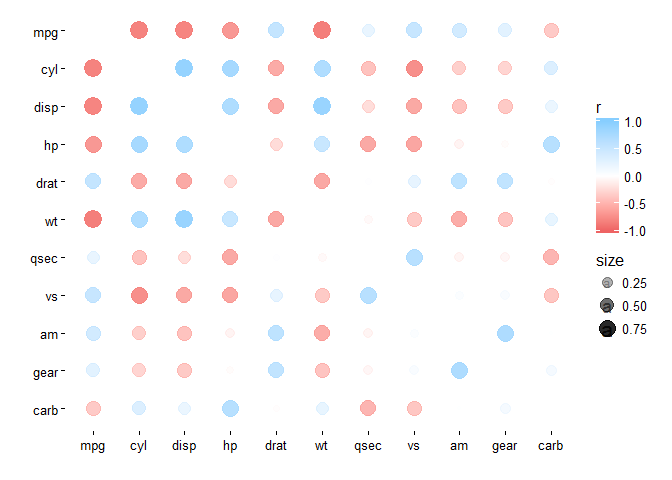
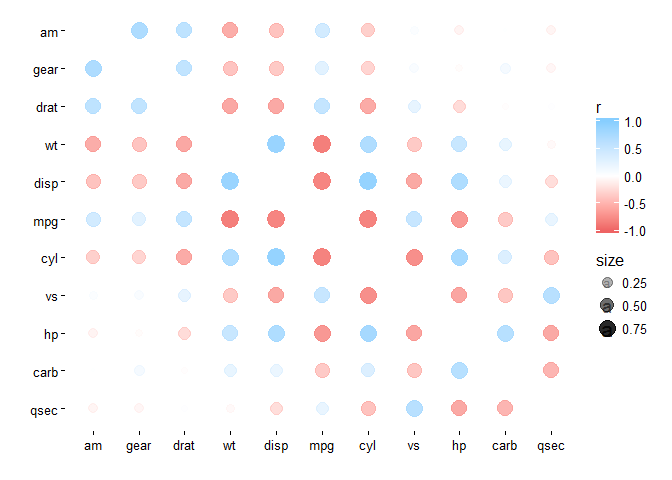
Added rarrange; minor additions/fixes

diff --git a/README.md b/README.md
@@ -155,7 +155,7 @@ x %>%
 Manipulating the Matrix
 -----------------------
 
-`corrr` provides convenience functions for routine manipulations of the matrix.
+`corrr` provides convenience functions for routine manipulations of the matrix. In general, these functions begin with the letter `r`.
 
 ### rselect()
 
@@ -309,3 +309,20 @@ mtcars %>% correlate() %>% rplot()
 ```
 
 ![](README_files/figure-markdown_github/rplot-1.png)
+
+This is particularly useful if `rarrange()` is used first, as it rearranges the correlations to group highly correlated variables together. Some examples combining this and the above:
+
+``` r
+# Deafult settings
+mtcars %>% correlate() %>% rarrange() %>% rplot()
+```
+
+![](README_files/figure-markdown_github/rplot_arranged-1.png)
+
+``` r
+# Using hierarchical clustering (method = "HC") and treating negative and
+# positive correlations as distant (absolute = FALSE)
+mtcars %>% correlate() %>% rarrange(method = "HC", absolute = FALSE) %>% rplot()
+```
+
+![](README_files/figure-markdown_github/rplot_arranged-2.png)
